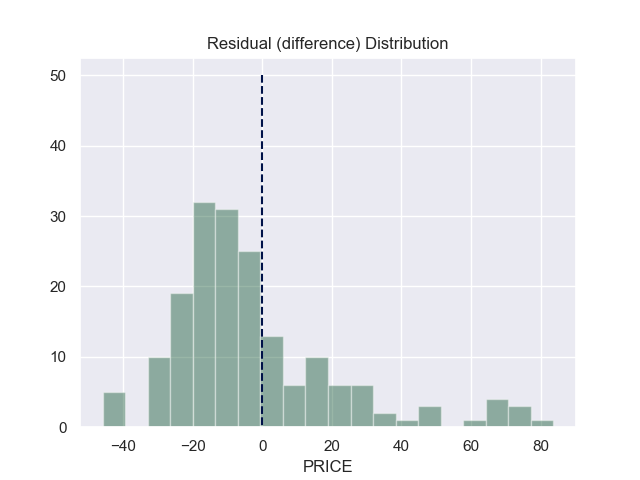
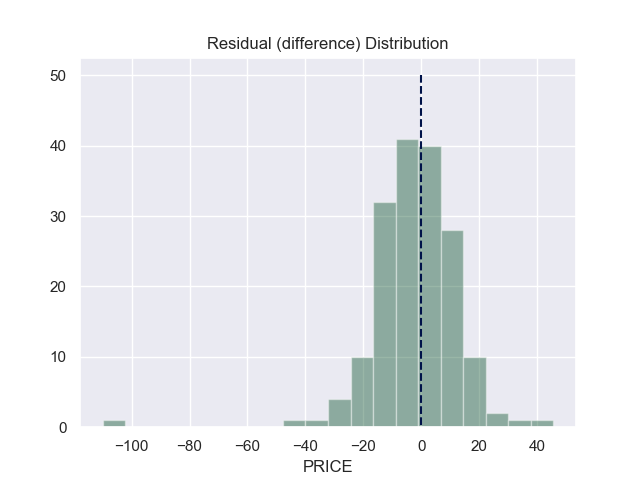
final project

diff --git a/Boston_prediction.py b/Boston_prediction.py
@@ -24,12 +24,12 @@ boston = load_boston()
 print('Building the Boston data frame and adding "PRICE" column..')
 bostondf = pd.DataFrame(boston.data, columns=boston.feature_names)
 bostondf['PRICE'] = boston.target
-print(bostondf.head())
+# print(bostondf.head())
 
 # To make the price more revelant, I accounted for inflation since 1978,
 # I multiply the PRICE by 423%
 bostondf['PRICE'] = round(bostondf['PRICE'] * 4.23, 2)
-print(bostondf.head())
+# print(bostondf.head())
 
 # Making scatter plots to see all the feature vs PRICE to check correlationS
 print('Creating scatter plots with all the features vs PRICE..')
@@ -54,7 +54,7 @@ plt.close()
 
 sns.distplot(bostondf['PRICE'], bins=30, color='g', label='Distribution of PRICE')
 plt.title('Distribution Plot of PRICE')
-plt.savefig('figures/boston_displot_PRICE.png', dpi=300)
+plt.savefig('figures/boston_displot_PRICE.png')
 plt.clf()
 plt.close()
 
@@ -62,7 +62,7 @@ plt.close()
 # Seeing that we have many values of 50.00 * 4.23 in MDEV,
 # I decided to drop those lines because I found out they might be missing or false values.
 # To ultimately have a better non-skewed result.
-print('After looking at the plots, dropping the lines with MEDV=50.00 because possible false values..')
+print('After looking at the plots, dropping the lines with PRICE = 211.50 because possible false values..')
 indexNames = bostondf[bostondf['PRICE'] == 211.5].index
 print(bostondf[bostondf['PRICE'] == 211.5])
 bostondf.drop(indexNames, inplace=True)
@@ -83,8 +83,8 @@ X_train, X_test, y_train, y_test = train_test_split(correlated_bostondf, bostond
 # I concluded that GradientBoostingRegressor was the best performing
 # lm = LinearRegression()
 # lm = Lasso(random_state=1)
-lm = ElasticNet(random_state=1)
-# lm = GradientBoostingRegressor(random_state=1)
+# lm = ElasticNet(random_state=1)
+lm = GradientBoostingRegressor(random_state=1)
 
 lm.fit(X_train, y_train)
 
@@ -131,3 +131,4 @@ plt.close()
 print(f"Printing MAE error(avg abs residual): {metrics.mean_absolute_error(y_test, predicted_values)}")
 print(f"Printing MSE error: {metrics.mean_squared_error(y_test, predicted_values)}")
 print(f"Printing RMSE error: {np.sqrt(metrics.mean_squared_error(y_test, predicted_values))}")
+print(f"Printing R^2 error: {metrics.r2_score(y_test, predicted_values)}")

diff --git a/README.md b/README.md
@@ -17,20 +17,15 @@
 
 ## Research Question
 
-Using the Boston Housing Dataset, can we build a machine learning model to predict the value of a house?
+Using the Boston Housing Dataset, can we build a machine learning model to predict the value of a house ?
 
 ### Abstract
 
-4 sentence longer explanation about your research question. Include:
-
-opportunity (what data do we have)
-challenge (what is the "problem" we could solve with this dataset)
-action (how will we try to solve this problem/answer this question)
-resolution (what did we end up producing)
-
-With the Boston Housing dataset
-
-The Boston housing
+We have the Boston Housing dataset, a well known toy dataset from 1978 with 506 samples with 13 features of homes as well as the price.
+Using this dataset, we can attempt to train a machine learning model to predict the price of a house based on certain given variables. 
+Firstly, thought data exploration, we verify the integrity of the dataset and the correlation between a variable versus the median value of a home (MDEV). 
+Secondly, finding that some variables are correlated, we trained and tested a linear regression model to predict the price. 
+With the results of the chosen estimator (GradientsBoostingRegression), we concluded that the results are not strong enough to use as a machine learning prediction. 
 
 ### Introduction
 
@@ -45,21 +40,13 @@ The Boston dataset for this project originates from the UCI Machine Learning Rep
     - Dropping 14 lines with PRICE = 211.5 because possible false values. [1]
     ![Dristribution Plot of PRICE](figures/boston_displot_PRICE.png)
     - The most correlated features with PRICE that can be used to train our model: RM and LSTAT. A new dataframe created.
+    ![heatmap](figures/boston_heatmap.png)
 - Training the linear regression with different estimators (LinearRegression, Lasso, ElasticNet, GradientBoostingRegressor) and using MSE as the performance metric for predicting house price.
 - Plotting the results of the real vs predicted values.
 
 ### Results
 
-Brief (2 paragraph) description about your results. Include:
-
-At least 1 figure
-At least 1 "value" that summarizes either your data or the "performance" of your method
-A short explanation of both of the above
-
 1. Correlation in the Boston dataset
-
-In the Heatmap, we can see the correlation values between the features and PRICE.
-![heatmap](figures/boston_heatmap.png)
 
 There's is strong positive correlation, as the number of rooms increase, the house price increases.
 ![scatter_RM_to_PRICE](figures/boston_scatter_RM_to_PRICE.png)
@@ -99,7 +86,7 @@ more features
 
 [4] TOWARDSDATASCIENCE.COM, Linear Regression on Boston Housing Dataset https://towardsdatascience.com/linear-regression-on-boston-housing-dataset-f409b7e4a155, site visited on November 23, 2019
 
-https://scikit-learn.org/stable/tutorial/machine_learning_map/index.html
+[5] SCIKIT-LEARN.ORG, Choosing the right estimator, https://scikit-learn.org/stable/tutorial/machine_learning_map/index.html, site visited on November 23, 2019
 
 
 
